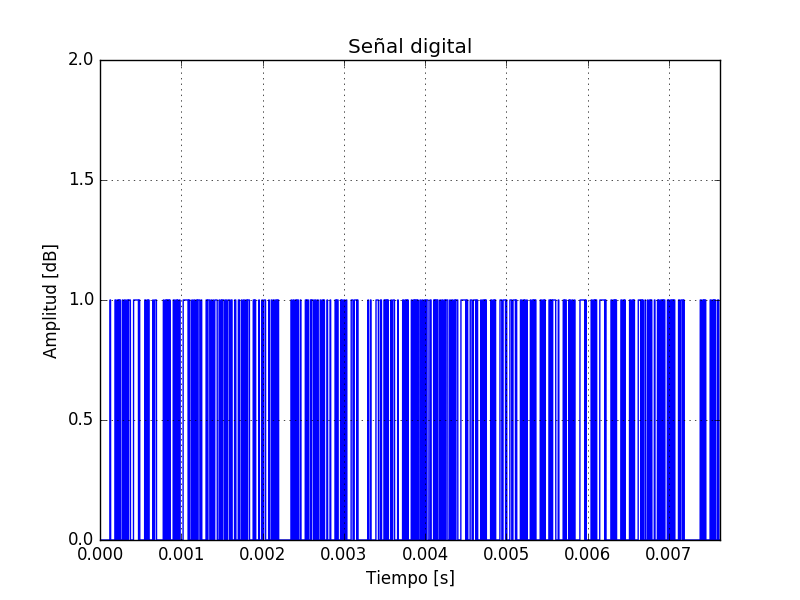
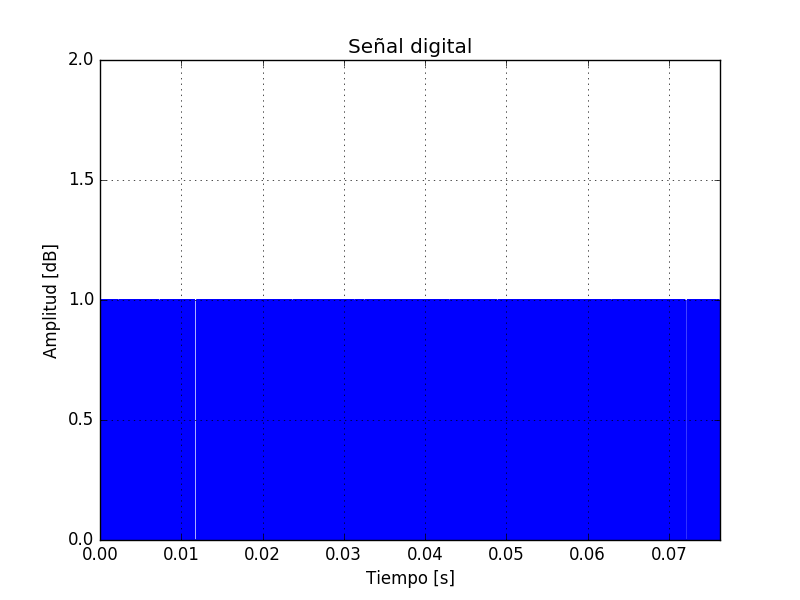
1010000101 ahora si esta listo

Changed region(s): [[0.0938, 0.48, 0.9062, 0.96]]

diff --git a/Laboratorio_4.py b/Laboratorio_4.py
@@ -7,7 +7,6 @@ Laboratorio 4 de Redes de Computadores por Shalini Ramchandani & Javier Arredond
 from numpy import linspace, pi, cos, random, concatenate
 import matplotlib.pyplot as plt
 from scipy.io.wavfile import read, write
-from scipy.fftpack import fft, ifft
 from scipy import integrate
 import warnings
 warnings.filterwarnings('ignore')
@@ -77,6 +76,7 @@ Salida:
 def arrayToBin(signal):
 	dataBin = []
 	bits = sizeBin(max(signal))
+	print(bits)
 	for data in signal:
                 _bin = intToBin(data, bits)
                 for i in _bin:
@@ -120,7 +120,7 @@ def graphData(data, time, sample, bps, title):
         total = sample * bps
         plt.plot(time[0:total], data[0:total], color = "green")
         plt.ylim(-6, 6)
-        plt.xlim(0, time[total])
+        plt.xlim(0, time[-1])
         plt.xlabel('Tiempo [s]')
         plt.ylabel('Amplitud [dB]')
         plt.title(title)
@@ -147,12 +147,17 @@ def ASKmodulation(signal, bps, duration, sample):
         sizeBin = len(signal)                           # Hay 1169808 elementos. Cantidad de bits totales en el audio.
         cutBin = signal[0:sample]                    # Recortamos la muestra. Tomamos los 10000 primeros
         ASK = []
+        c = 0
         for i in  cutBin:
+                c = c + 1
+                print(c)
                 if(i == 1):
                         ASK = concatenate([ASK, (A * dataCarrier)])
                 else:
                         ASK = concatenate([ASK, (B * dataCarrier)])
-        t = linspace(0, duration, sizeBin * len(dataCarrier)) # Creamos un vector tiempo para graficar. Dura 9s con un total de muchos puntos.
+        duration = len(cutBin) * duration / len(signal)
+        print(duration)
+        t = linspace(0, duration, len(ASK)) # Creamos un vector tiempo para graficar. Dura 9s con un total de muchos puntos.
         return ASK, t
 
 
@@ -164,15 +169,17 @@ def addNoise(signal, snr):
 
 def ASKdemodulation(askSignal, bps):
         f = 2
+        A = 4
         timeCarrier = linspace(0, 1 - 1/bps, bps)   # Tiempo de un coseno, 1 seg, 100 muestras, con 100 queda bien, 50 queda horrible
         dataCarrier = cos(2 * pi * f * timeCarrier)     # Carrier: onda coseno
+        one = integrate.trapz(A * dataCarrier * dataCarrier, timeCarrier)        
         back = 0 # Con back y front manejamos los intervalos de integración
         signalDemotulated = []
         for i in range(0, len(askSignal), len(timeCarrier)): # En toda la señal recorreremos trozos del tamaño de la portadora
                 front = back + len(timeCarrier)
                 sliceSignal = dataCarrier * askSignal[back:front]
                 area = integrate.trapz(sliceSignal, timeCarrier)
-                if(area >= 1.9):
+                if(area >= one):
                         signalDemotulated.append(1)
                 else:
                         signalDemotulated.append(0)
@@ -181,8 +188,8 @@ def ASKdemodulation(askSignal, bps):
                 
 
 print("Modulación ASK")
-bps = 100      # Bits por segundo
-sample = 1000  # Muestra de datos a tomar, para los graficos.
+bps = 100         # Bits por segundo
+sample = 10000  # Muestra de datos a tomar, para los graficos. Muestra total 1169808
 snr = 10
 # Procedimientos:
 #       1. Leer audio y calcular tiempo de duracion.
